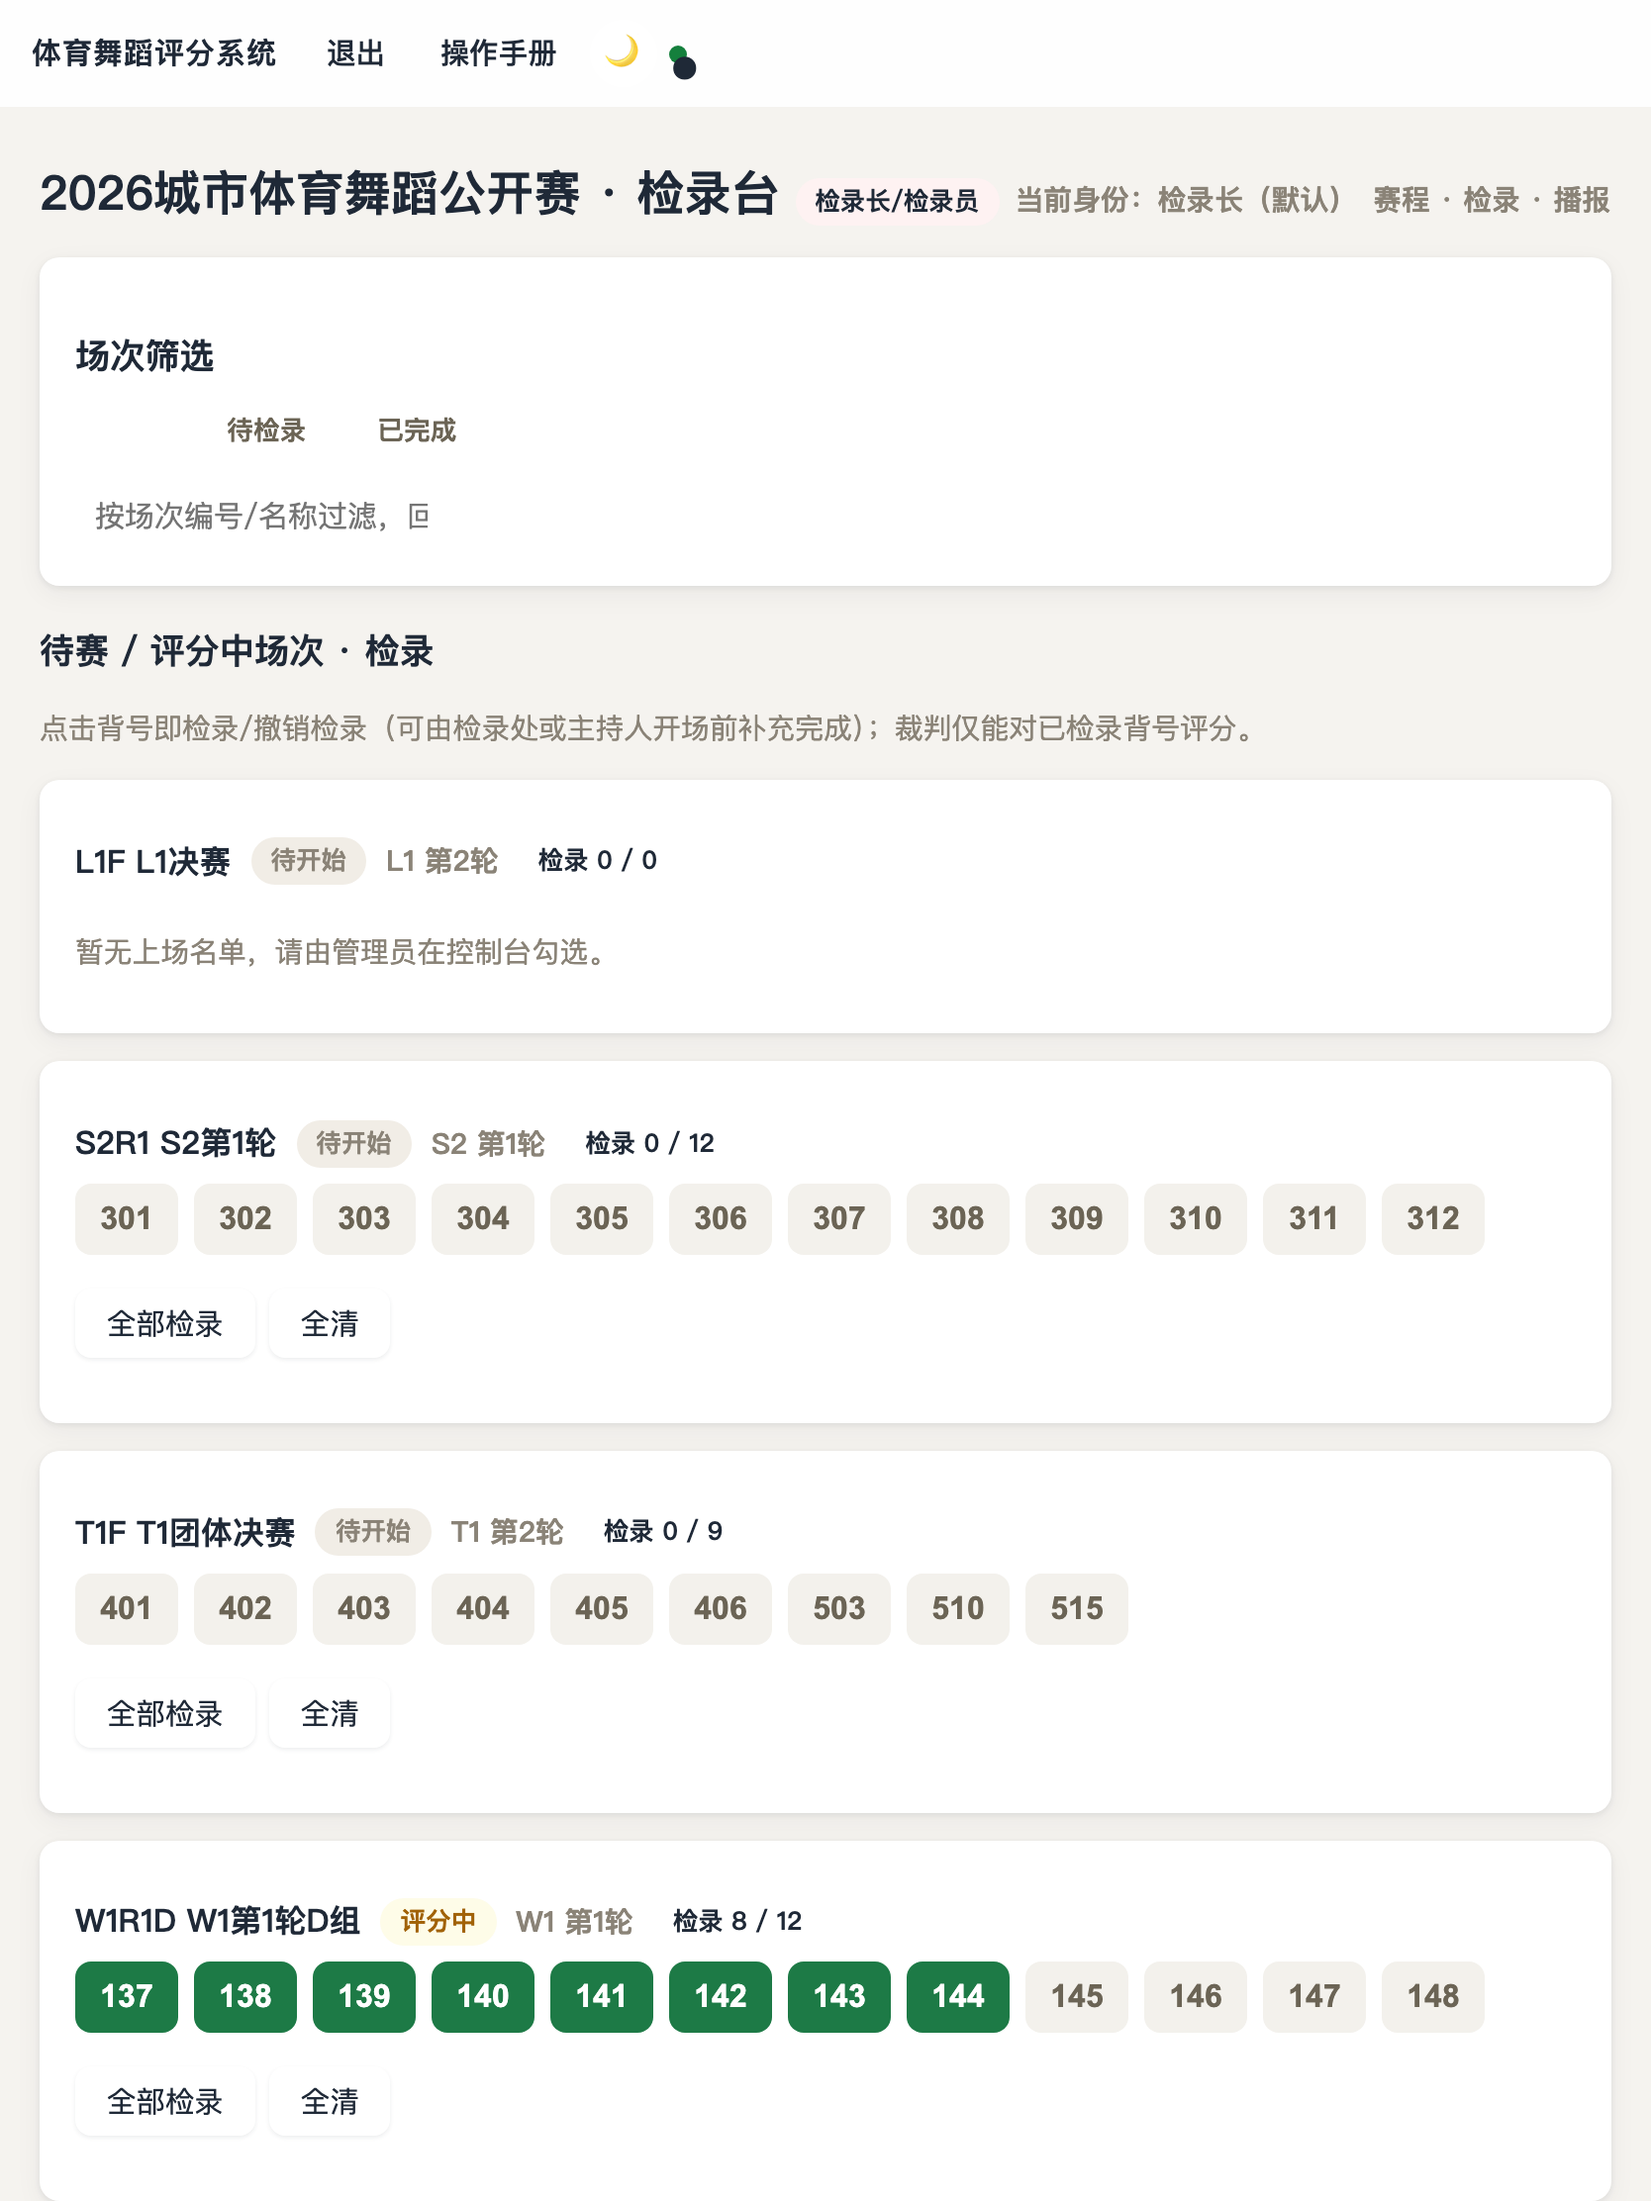
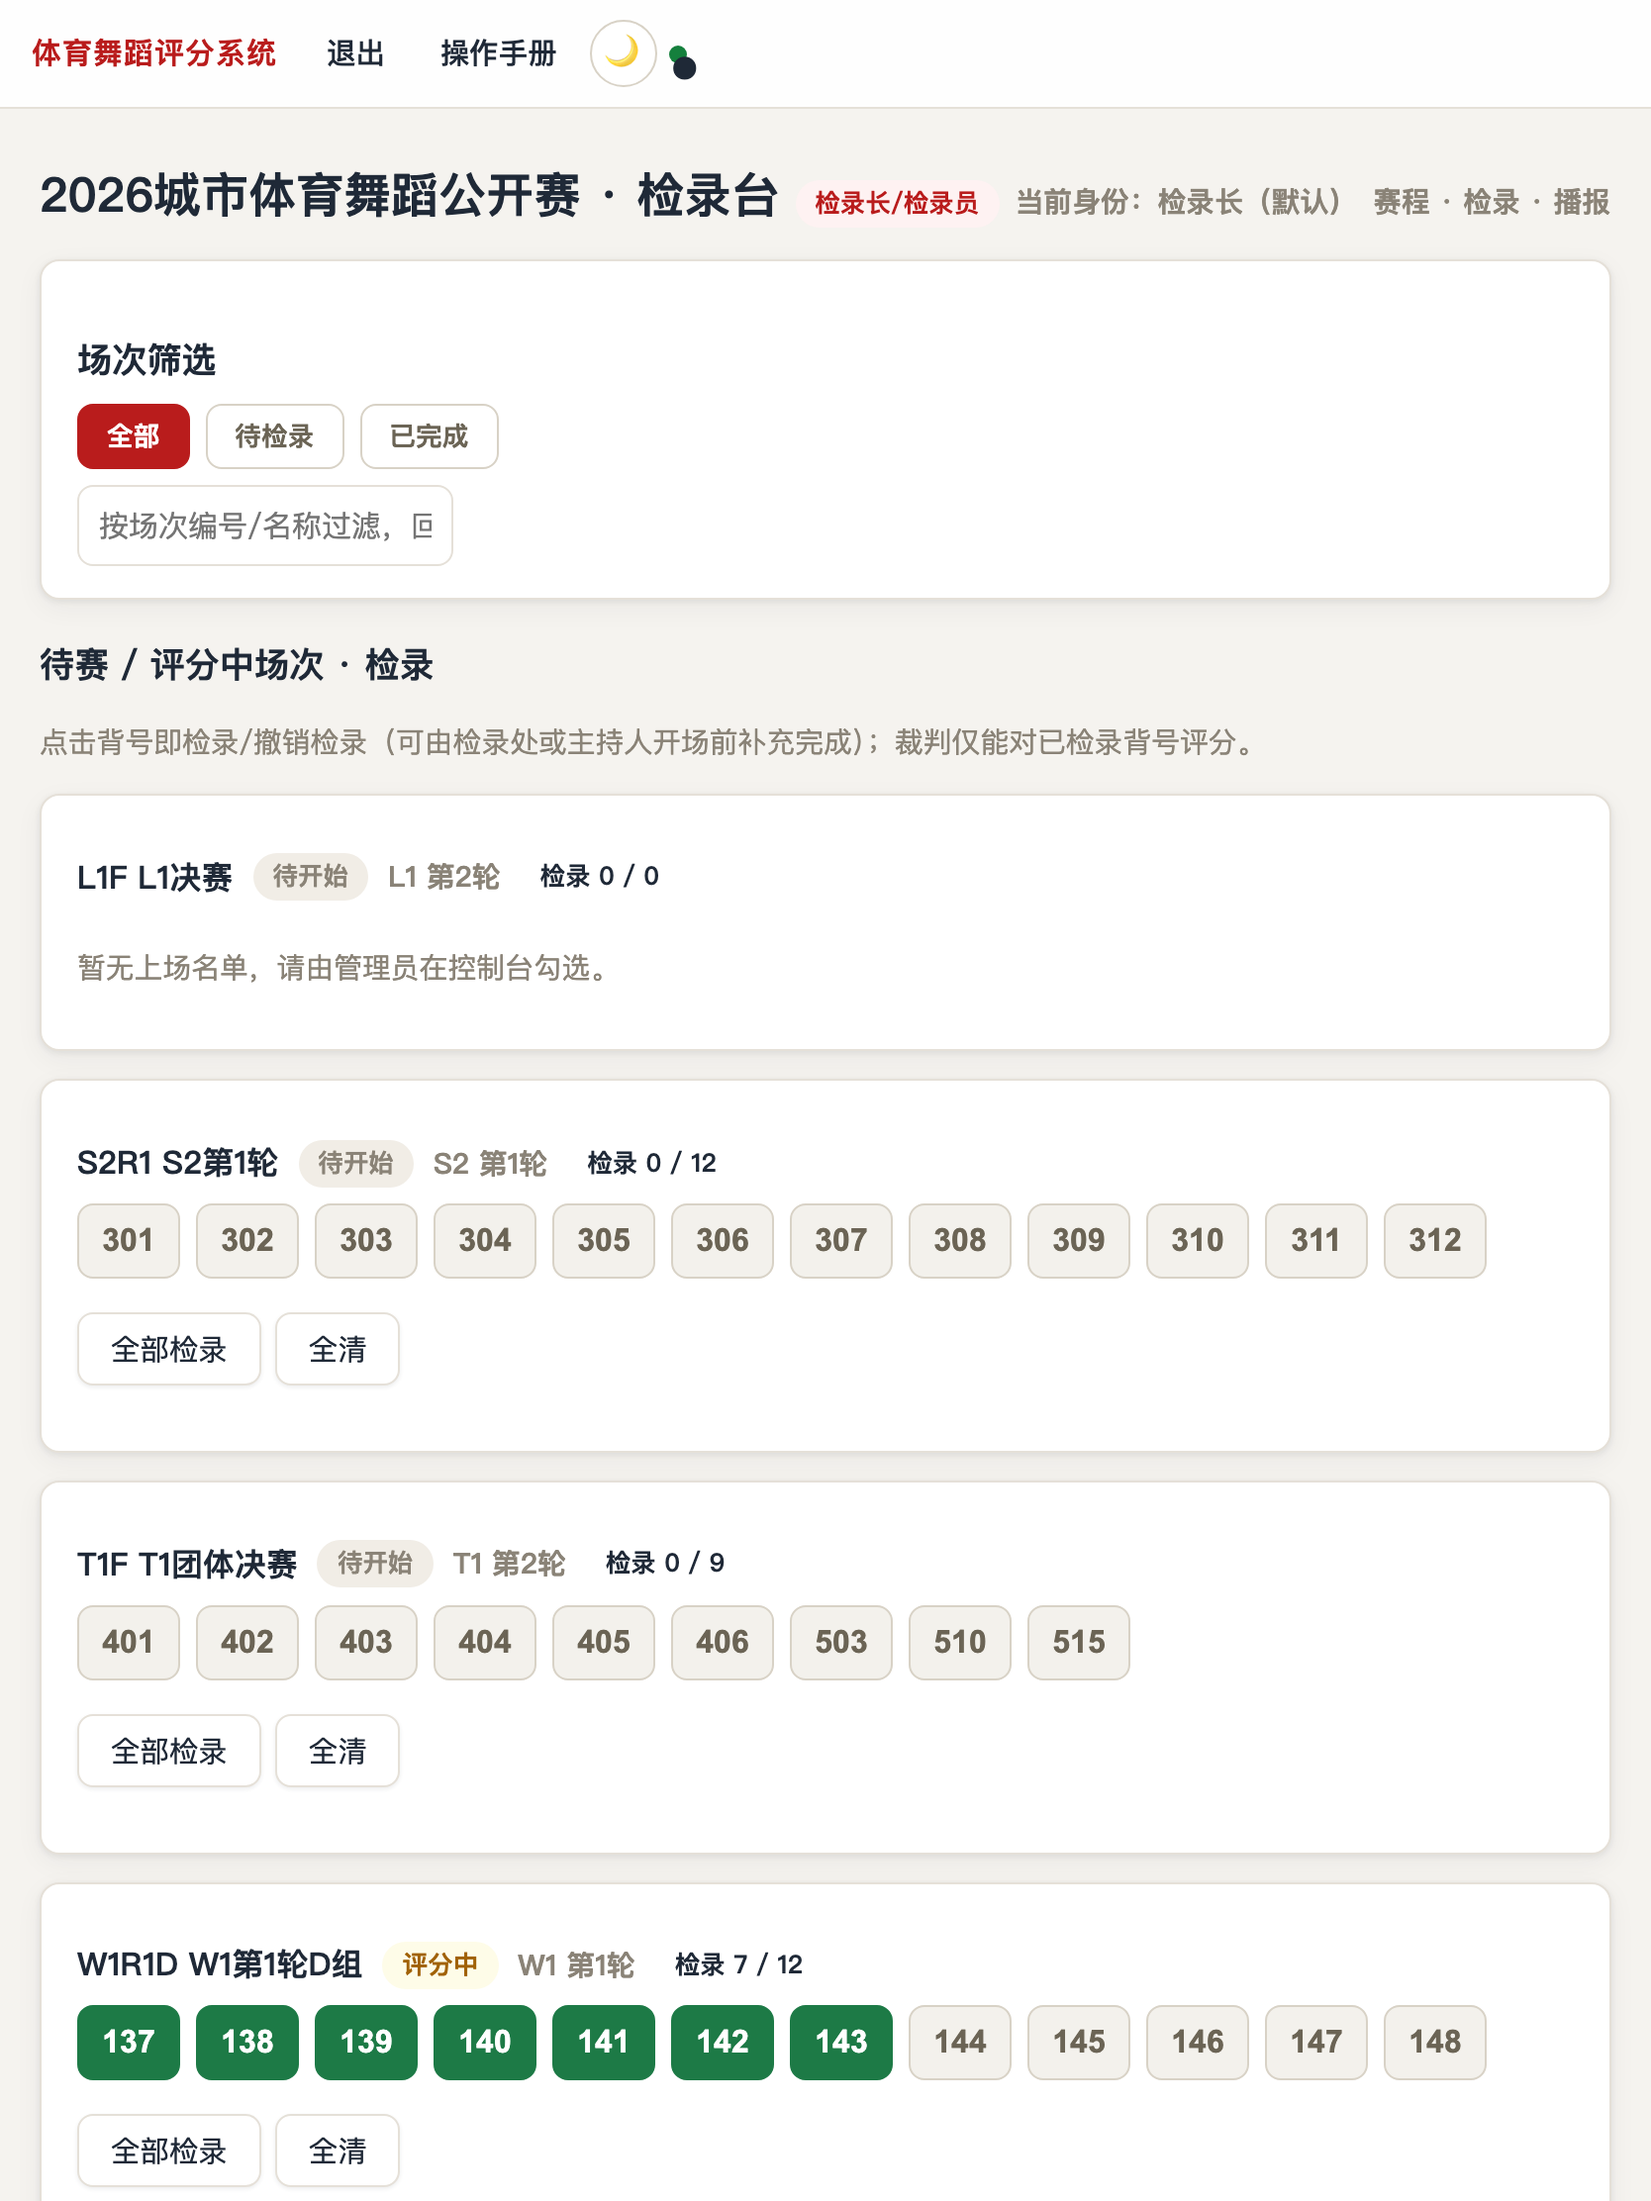
R40终审整改(REJECTED→修复)：:root四处令牌自引用循环还原真实色值(--line/--acc/--acc-deep/--line-strong，批量替换误伤致浅色按钮透明/边框消失)；theme_walk补元素级断言(.btn背景MISSING检测/.card边框solid校验)防此类损坏漏检；浅色截图全量重拍

diff --git a/webapp/server/static/style.css b/webapp/server/static/style.css
@@ -2,10 +2,10 @@
 :root {
   --bg: #f5f3ef;            /* 暖灰底 */
   --card: #ffffff;
-  --line: var(--line);
+  --line: #e5e0d8;
   --txt: #1f2937;
   --muted: #8a8377;
-  --acc: var(--acc);           /* 竞技红 */
+  --acc: #b91c1c;           /* 竞技红 */
   --acc-soft: #fef2f2;
   --gold: #b45309;          /* 赛事金 */
   --ok: #15803d;
@@ -303,8 +303,8 @@ details.card[open] > summary { margin-bottom: .6rem; }
 
 /* ---- 设计令牌升级 ---- */
 :root {
-  --acc-deep: var(--acc-deep);
-  --line-strong: var(--line-strong);
+  --acc-deep: #991b1b;
+  --line-strong: #d8d2c6;
   --radius-sm: 8px;
   --shadow-lift: 0 2px 6px rgba(31,41,55,.1), 0 10px 28px rgba(31,41,55,.08);
 }

diff --git a/tools/e2e_theme_walk.py b/tools/e2e_theme_walk.py
@@ -81,14 +81,21 @@ async def run():
                       bg: getComputedStyle(document.body).backgroundColor,
                       hsw: document.documentElement.scrollWidth - document.documentElement.clientWidth,
                       theme: document.documentElement.dataset.theme,
-                      title: (document.querySelector('h1') || document.body).textContent.trim().slice(0, 40) })""")
+                      title: (document.querySelector('h1') || document.body).textContent.trim().slice(0, 40),
+                      btnBg: (() => { const b = document.querySelector('.btn'); if (!b) return null;
+                        const s = getComputedStyle(b);
+                        return (s.backgroundImage === 'none' && s.backgroundColor === 'rgba(0, 0, 0, 0)') ? 'MISSING' : 'ok'; })(),
+                      cardBorder: (() => { const c = document.querySelector('.card'); if (!c) return null;
+                        return getComputedStyle(c).borderTopStyle; })() })""")
                     expect_bg = DARK_BG if theme == "dark" else LIGHT_BG
                     if name in SCREEN_PAGES:
                         bg_ok = True   # 大屏固定深色自成体系
                     else:
                         bg_ok = st["bg"] == expect_bg
-                    record(f"{vp_name}/{theme}/{name}", bg_ok and st["hsw"] <= 0 and st["theme"] == theme,
-                           f"bg={st['bg']} hsw={st['hsw']} title={st['title']!r}")
+                    elem_ok = st["btnBg"] != "MISSING" and st["cardBorder"] in (None, "solid")
+                    record(f"{vp_name}/{theme}/{name}",
+                           bg_ok and st["hsw"] <= 0 and st["theme"] == theme and elem_ok,
+                           f"bg={st['bg']} hsw={st['hsw']} btn={st['btnBg']} border={st['cardBorder']} title={st['title']!r}")
                     if name in SHOT_PAGES:
                         await page.screenshot(path=os.path.join(OUT, f"{vp_name}-{theme}-{name}.png"))
                 # ---- 交互抽查（每视口 dark 一轮）----
